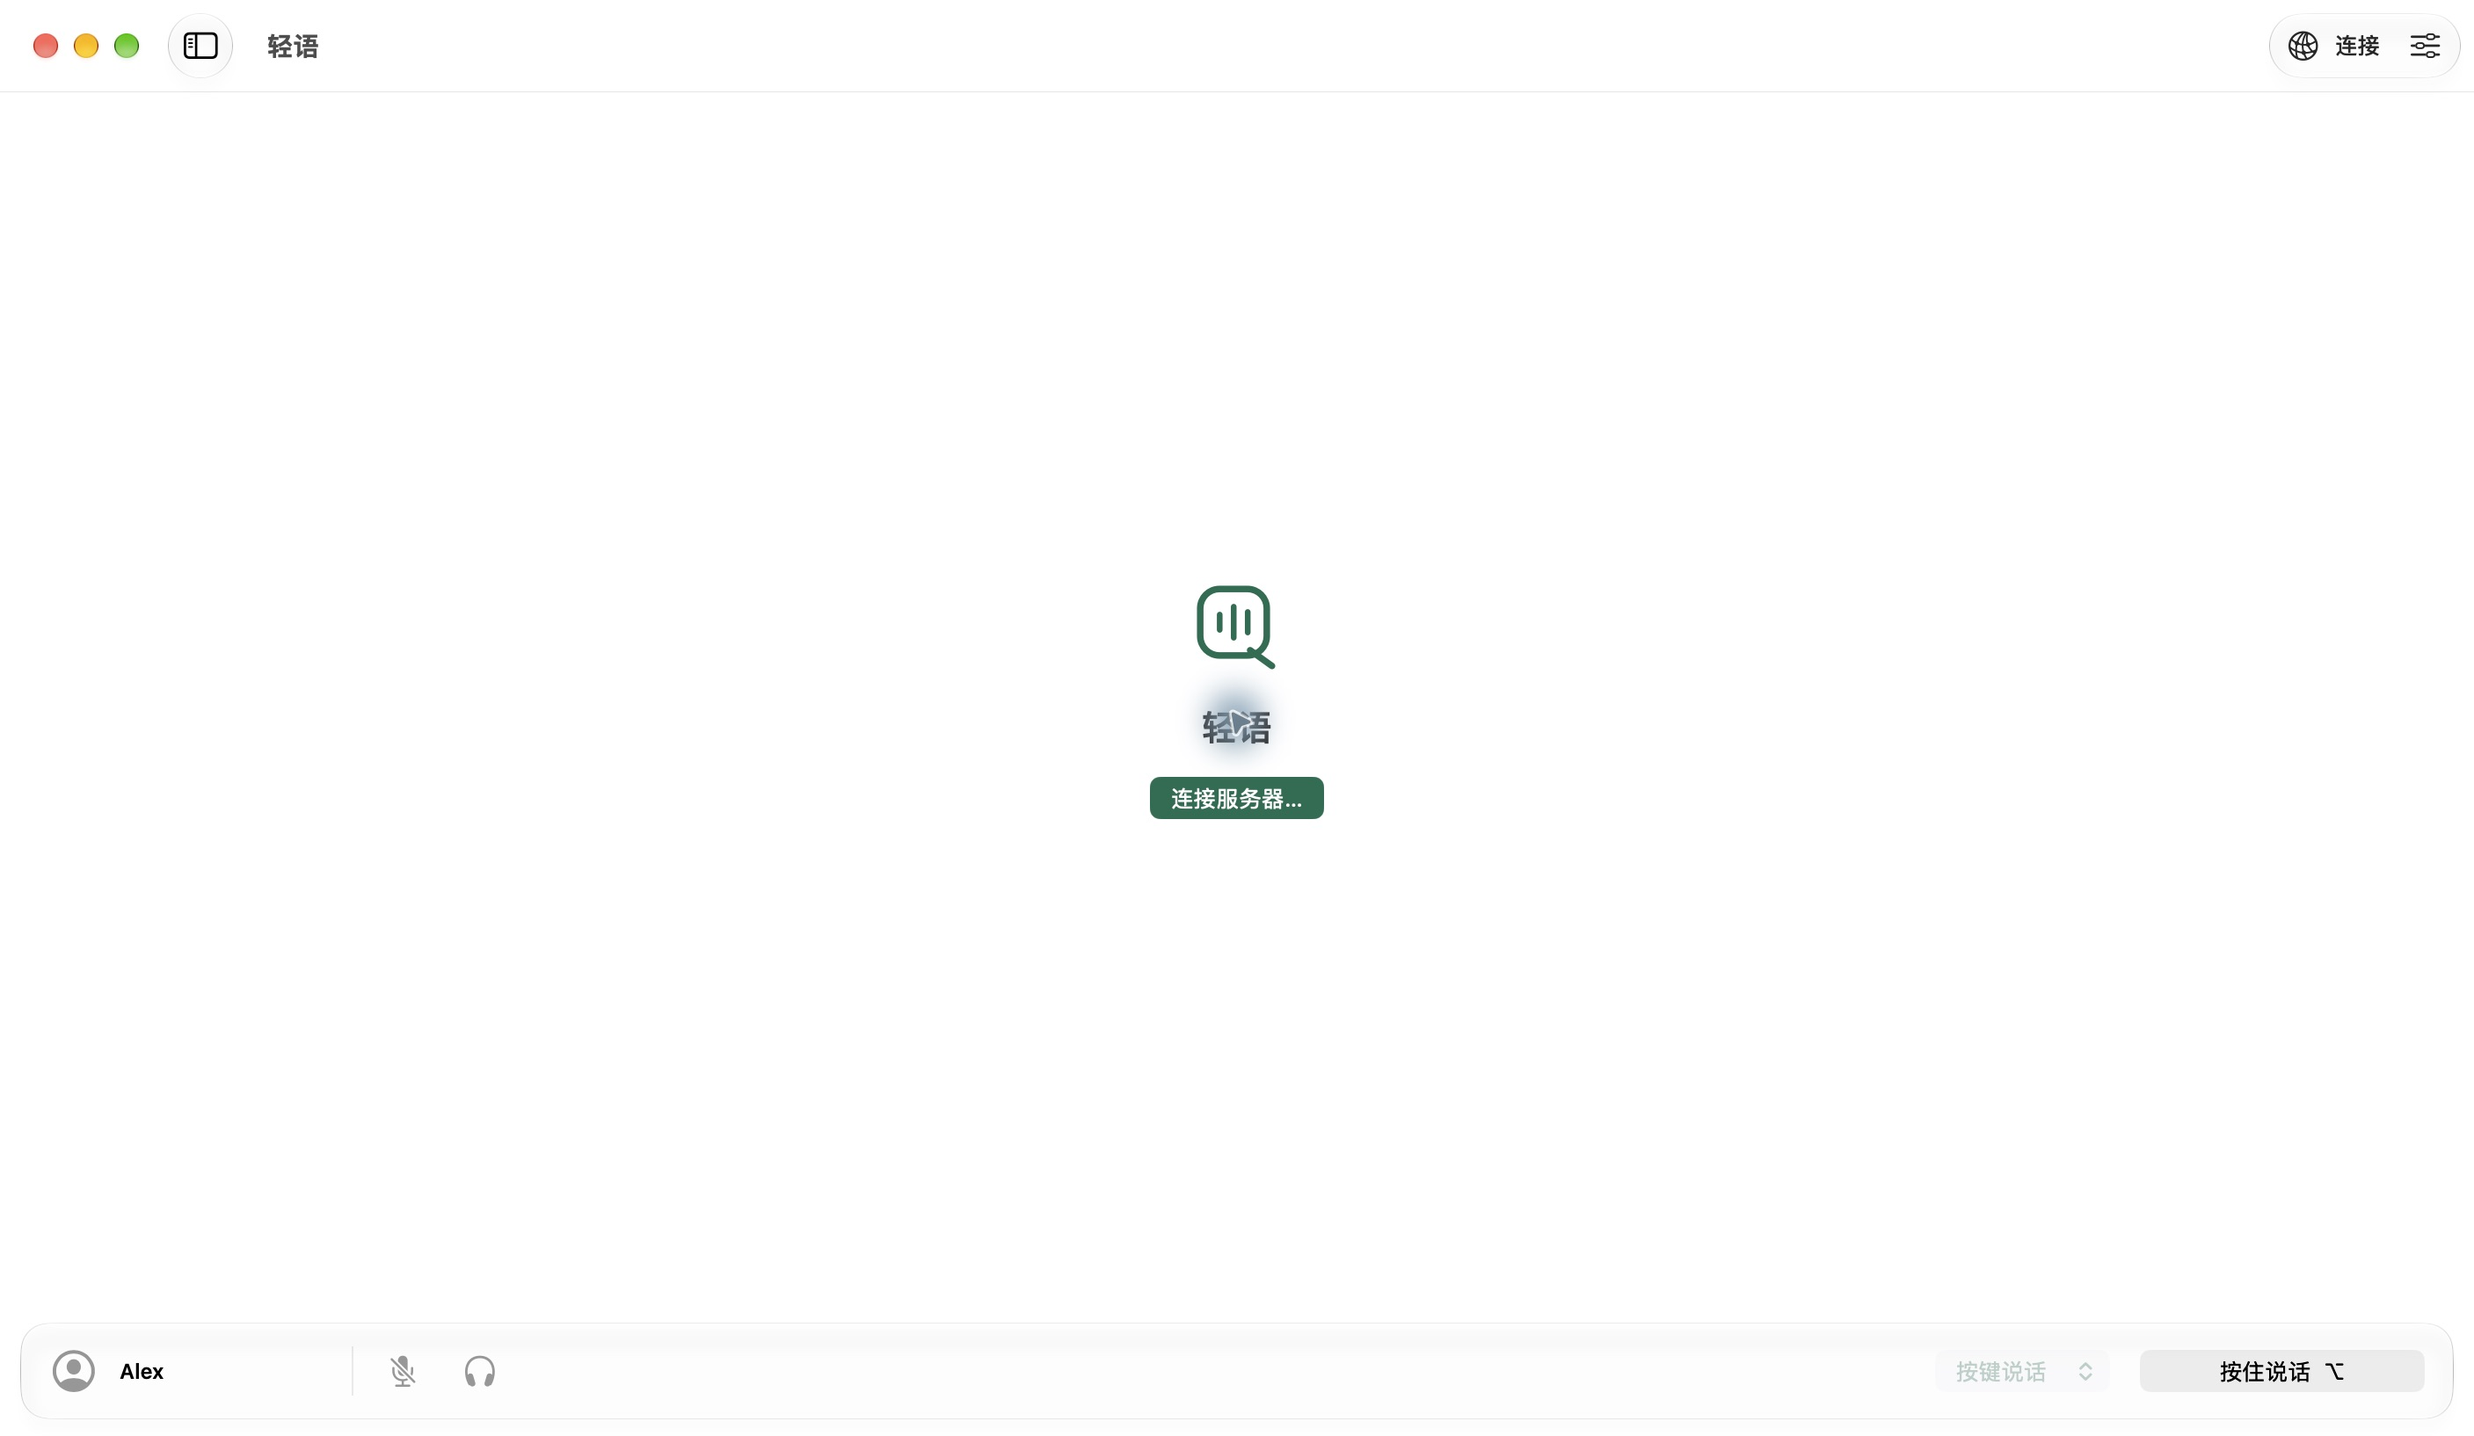
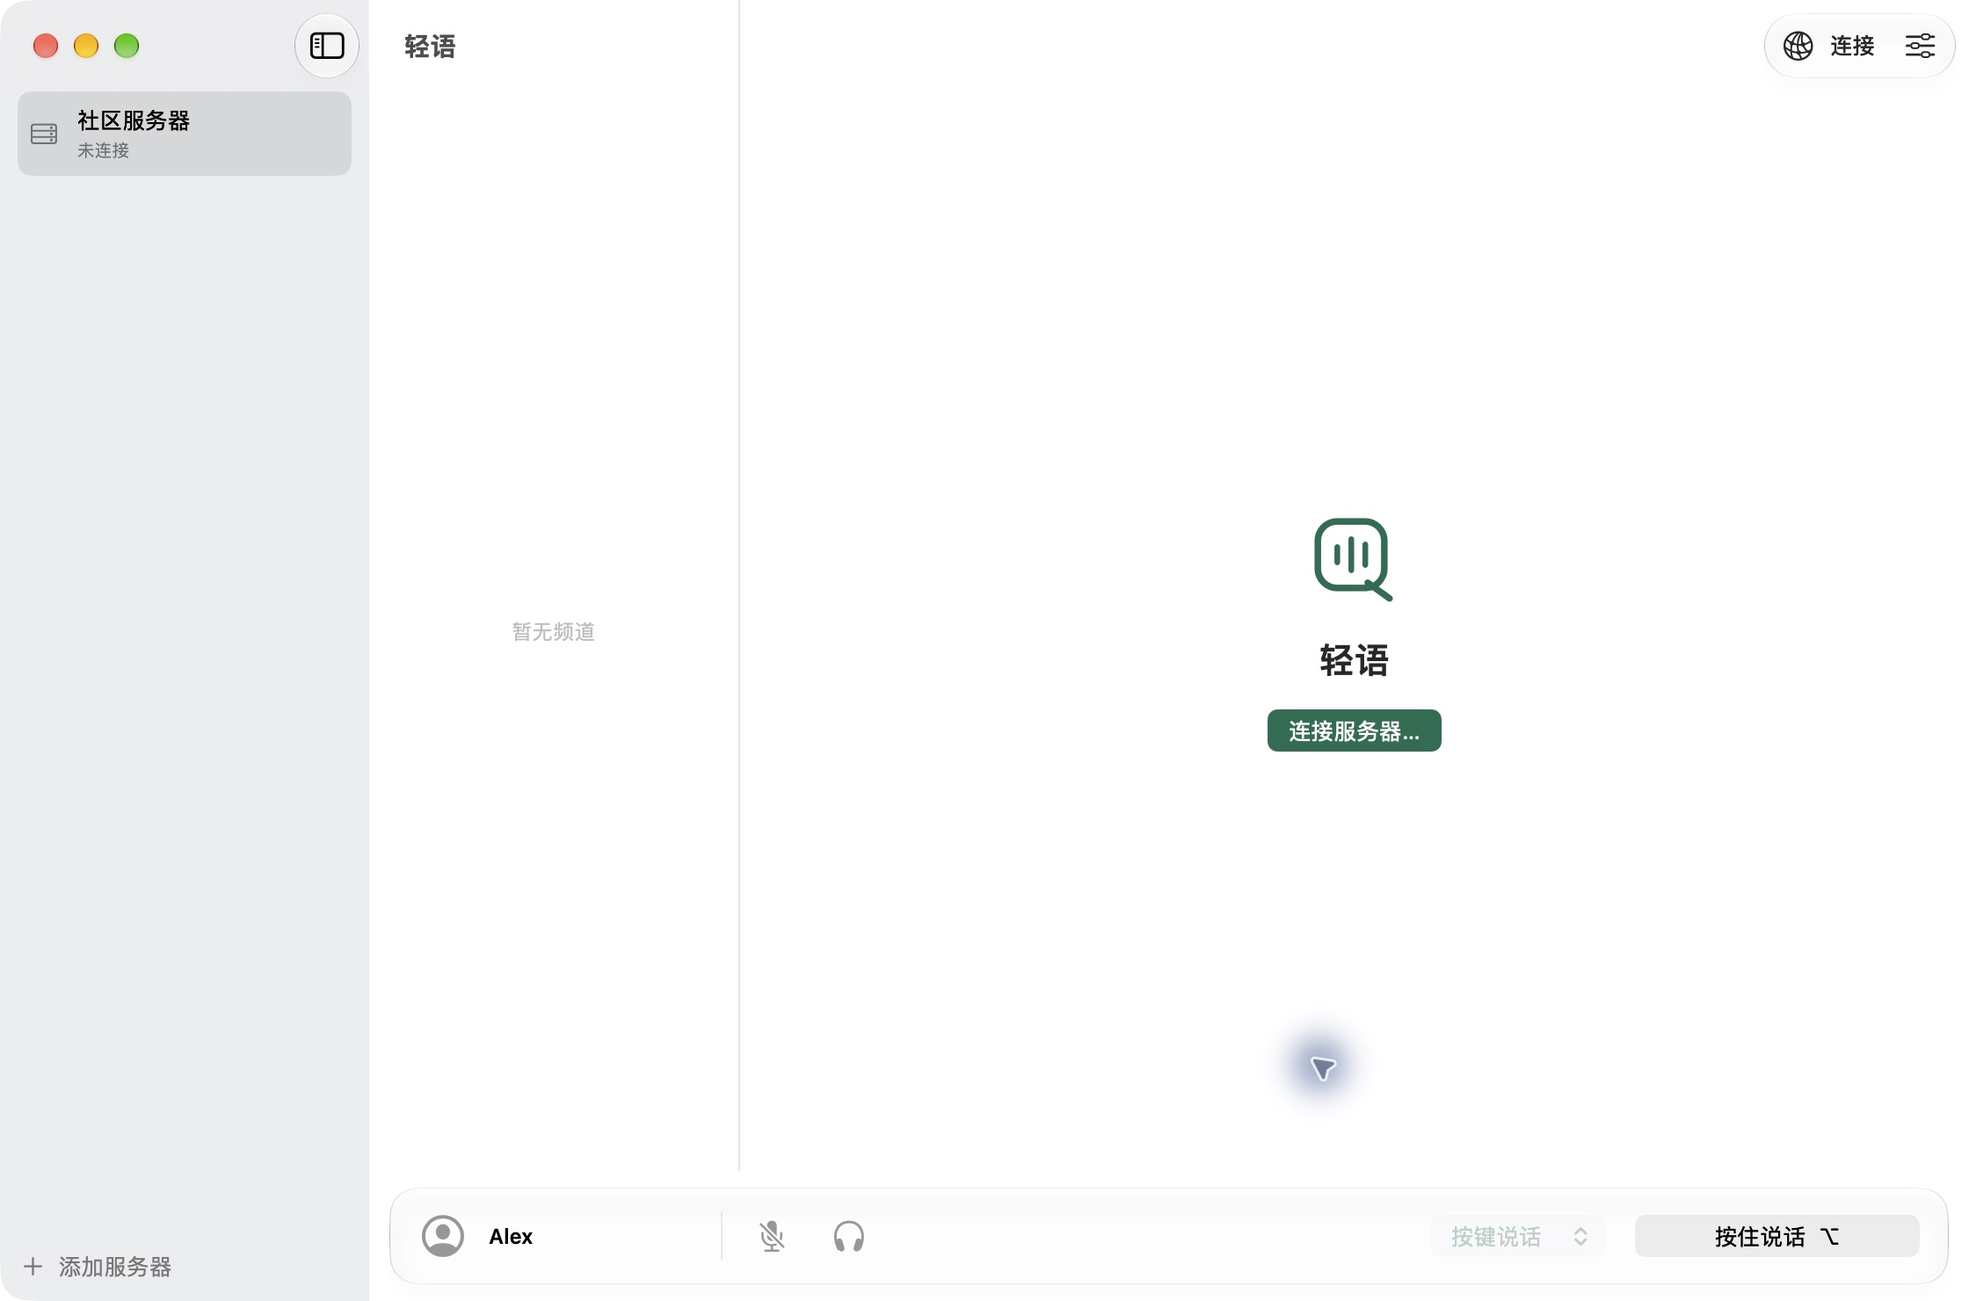
Keep voice controls within the channel and chat workspace

diff --git a/Native/MainView.swift b/Native/MainView.swift
@@ -11,85 +11,86 @@ struct MainView: View {
     @AppStorage("nativeChannelSidebarVisible") private var showChannels = true
     @State private var chatDraft = ""
     var body: some View {
-        VStack(spacing: 0) {
-            navigation.navigationSplitViewStyle(.balanced)
-                .frame(maxWidth: .infinity, maxHeight: .infinity)
-            voiceBar.padding(.horizontal, 12).padding(.vertical, 10)
-        }
-        .focusedSceneValue(\.channelSidebarVisibility, $showChannels)
-        .sheet(isPresented: $client.showConnection) {
-            ConnectionSheet(bookmark: client.selectedServer, isNew: false).environmentObject(
-                client)
-        }
-        .sheet(isPresented: $adding) {
-            ConnectionSheet(bookmark: nil, isNew: true).environmentObject(client)
-        }
-        .sheet(item: $editing) { item in
-            ConnectionSheet(bookmark: item, isNew: false).environmentObject(client)
-        }
-        .sheet(isPresented: $client.showSettings) { SettingsSheet().environmentObject(client) }
-        .alert(
-            "无法完成操作",
-            isPresented: Binding(
-                get: { client.error != nil }, set: { if !$0 { client.error = nil } })
-        ) {
-            Button("好", role: .cancel) { client.error = nil }
-        } message: {
-            Text(client.error ?? "")
-        }
-        .alert(
-            "频道密码",
-            isPresented: Binding(
-                get: { lockedChannel != nil },
-                set: {
-                    if !$0 {
-                        lockedChannel = nil
-                        channelPassword = ""
-                    }
-                })
-        ) {
-            SecureField("请输入频道密码", text: $channelPassword)
-            Button("加入") {
-                client.joinSelected(password: channelPassword)
-                lockedChannel = nil
-                channelPassword = ""
+        navigation.navigationSplitViewStyle(.balanced)
+            .focusedSceneValue(\.channelSidebarVisibility, $showChannels)
+            .sheet(isPresented: $client.showConnection) {
+                ConnectionSheet(bookmark: client.selectedServer, isNew: false).environmentObject(
+                    client)
             }
-            Button("取消", role: .cancel) {
-                lockedChannel = nil
-                channelPassword = ""
+            .sheet(isPresented: $adding) {
+                ConnectionSheet(bookmark: nil, isNew: true).environmentObject(client)
             }
-        } message: {
-            Text("加入 \(lockedChannel?.name ?? "")")
-        }
+            .sheet(item: $editing) { item in
+                ConnectionSheet(bookmark: item, isNew: false).environmentObject(client)
+            }
+            .sheet(isPresented: $client.showSettings) { SettingsSheet().environmentObject(client) }
+            .alert(
+                "无法完成操作",
+                isPresented: Binding(
+                    get: { client.error != nil }, set: { if !$0 { client.error = nil } })
+            ) {
+                Button("好", role: .cancel) { client.error = nil }
+            } message: {
+                Text(client.error ?? "")
+            }
+            .alert(
+                "频道密码",
+                isPresented: Binding(
+                    get: { lockedChannel != nil },
+                    set: {
+                        if !$0 {
+                            lockedChannel = nil
+                            channelPassword = ""
+                        }
+                    })
+            ) {
+                SecureField("请输入频道密码", text: $channelPassword)
+                Button("加入") {
+                    client.joinSelected(password: channelPassword)
+                    lockedChannel = nil
+                    channelPassword = ""
+                }
+                Button("取消", role: .cancel) {
+                    lockedChannel = nil
+                    channelPassword = ""
+                }
+            } message: {
+                Text("加入 \(lockedChannel?.name ?? "")")
+            }
     }
     private var columnVisibility: Binding<NavigationSplitViewVisibility> {
         Binding(
-            get: { showServers ? .all : (showChannels ? .doubleColumn : .detailOnly) },
+            get: { showServers ? .all : .detailOnly },
             set: { visibility in
-                if visibility == .all {
+                if visibility == .all || visibility == .doubleColumn {
                     showServers = true
-                } else if visibility == .doubleColumn {
-                    showServers = !showChannels
                 } else if visibility == .detailOnly {
                     showServers = false
                 }
             })
     }
-    @ViewBuilder private var navigation: some View {
-        if showChannels {
-            NavigationSplitView(columnVisibility: columnVisibility) {
-                servers
-            } content: {
-                channelList
-            } detail: {
-                detail
+    private var navigation: some View {
+        NavigationSplitView(columnVisibility: columnVisibility) {
+            servers
+        } detail: {
+            VStack(spacing: 0) {
+                Group {
+                    if showChannels {
+                        HSplitView {
+                            channelList.frame(minWidth: 210, idealWidth: 260, maxWidth: 380)
+                            detail.layoutPriority(1)
+                        }
+                    } else {
+                        detail
+                    }
+                }.frame(maxWidth: .infinity, maxHeight: .infinity)
+                voiceBar.padding(.horizontal, 12).padding(.vertical, 10)
             }
-        } else {
-            NavigationSplitView(columnVisibility: columnVisibility) {
-                servers
-            } detail: {
-                detail
-            }
+            .frame(minWidth: showChannels ? 584 : 540)
+            .navigationTitle(client.connected ? client.serverName : "轻语")
+            .navigationSubtitle(
+                client.connected ? "\(client.channels.count) 个频道 · \(client.members.count) 位成员" : ""
+            )
         }
     }
     private var detail: some View {
@@ -177,13 +178,7 @@ struct MainView: View {
                 }.allowsHitTesting(false)
             }
         }
-        .navigationTitle(
-            client.connected ? client.serverName : (client.selectedServer?.name ?? "频道")
-        )
-        .navigationSubtitle(
-            client.connected ? "\(client.channels.count) 个频道 · \(client.members.count) 位成员" : ""
-        )
-        .navigationSplitViewColumnWidth(min: 210, ideal: 260, max: 380)
+
     }
     private var flatChannels: [(channel: Channel, depth: Int)] {
         var output: [(channel: Channel, depth: Int)] = []
@@ -290,57 +285,65 @@ struct MainView: View {
                 }.padding(.horizontal, 18).padding(.vertical, 8).background(
                     Color.orange.opacity(0.06))
             }
-            HStack(spacing: 12) {
+            ViewThatFits(in: .horizontal) {
+                voiceControls(compact: false)
+                voiceControls(compact: true)
+            }
+        }.modifier(VoicePanelMaterial())
+    }
+    private func voiceControls(compact: Bool) -> some View {
+        HStack(spacing: compact ? 8 : 12) {
+            if !compact {
                 Image(systemName: "person.crop.circle").font(.system(size: 24))
                     .foregroundStyle(.secondary)
-                VStack(alignment: .leading, spacing: 3) {
-                    Text(
-                        client.members.first(where: { $0.id == client.ownID })?.name ?? client
-                            .selectedServer?.nickname ?? "你"
-                    )
-                    .font(.system(size: 12, weight: .semibold)).lineLimit(1)
-                    if let channel = client.joined {
-                        Text(channel.name).font(.system(size: 10)).foregroundStyle(.secondary)
-                            .lineLimit(1)
-                    }
-                }.frame(width: 120, alignment: .leading)
-                Divider().frame(height: 28)
-                voiceButton(
-                    client.microphoneEnabled ? "mic.fill" : "mic.slash.fill",
-                    label: client.microphoneEnabled ? "关闭麦克风" : "开启麦克风",
-                    active: client.microphoneEnabled
-                ) { client.toggleMicrophone() }
-                voiceButton(
-                    client.deafened ? "speaker.slash.fill" : "headphones",
-                    label: client.deafened ? "恢复耳机" : "耳机静音", active: client.deafened
-                ) { client.toggleDeafen() }
-                Spacer(minLength: 16)
-                Picker("说话方式", selection: $client.talkMode) {
-                    ForEach(TalkMode.allCases) { Text($0.rawValue).tag($0) }
+            }
+            VStack(alignment: .leading, spacing: 3) {
+                Text(
+                    client.members.first(where: { $0.id == client.ownID })?.name ?? client
+                        .selectedServer?.nickname ?? "你"
+                )
+                .font(.system(size: 12, weight: .semibold)).lineLimit(1)
+                if let channel = client.joined {
+                    Text(channel.name).font(.system(size: 10)).foregroundStyle(.secondary)
+                        .lineLimit(1)
                 }
-                .labelsHidden().frame(width: 110).disabled(!client.connected)
-                .onChange(of: client.talkMode) {
-                    client.holding = false
-                    client.updateAudio()
-                }
-                if client.talkMode == .pushToTalk {
-                    HoldToTalk(
-                        enabled: client.connected && client.microphoneEnabled && !client.deafened,
-                        active: client.transmitting, onHold: client.setHolding
-                    )
-                    .frame(width: 162, height: 34)
-                    .help("按住按钮或 ⌥ Option 说话；键盘快捷键仅在轻语位于前台时生效")
-                } else {
-                    Label(
-                        client.microphoneRequested
-                            ? (client.canSendAudio ? "麦克风已开启" : "等待话语权限") : "麦克风已关闭",
-                        systemImage: client.transmitting ? "waveform" : "mic.slash"
-                    )
-                    .font(.system(size: 11)).foregroundStyle(
-                        client.transmitting ? Palette.accent : Color.secondary)
-                }
-            }.padding(.horizontal, 16).frame(height: 54)
-        }.modifier(VoicePanelMaterial())
+            }.frame(width: compact ? 80 : 120, alignment: .leading)
+            Divider().frame(height: 28)
+            voiceButton(
+                client.microphoneEnabled ? "mic.fill" : "mic.slash.fill",
+                label: client.microphoneEnabled ? "关闭麦克风" : "开启麦克风",
+                active: client.microphoneEnabled
+            ) { client.toggleMicrophone() }
+            voiceButton(
+                client.deafened ? "speaker.slash.fill" : "headphones",
+                label: client.deafened ? "恢复耳机" : "耳机静音", active: client.deafened
+            ) { client.toggleDeafen() }
+            Spacer(minLength: 16)
+            Picker("说话方式", selection: $client.talkMode) {
+                ForEach(TalkMode.allCases) { Text($0.rawValue).tag($0) }
+            }
+            .labelsHidden().frame(width: compact ? 100 : 110).disabled(!client.connected)
+            .onChange(of: client.talkMode) {
+                client.holding = false
+                client.updateAudio()
+            }
+            if client.talkMode == .pushToTalk {
+                HoldToTalk(
+                    enabled: client.connected && client.microphoneEnabled && !client.deafened,
+                    active: client.transmitting, onHold: client.setHolding
+                )
+                .frame(width: compact ? 130 : 162, height: 34)
+                .help("按住按钮或 ⌥ Option 说话；键盘快捷键仅在轻语位于前台时生效")
+            } else {
+                Label(
+                    client.microphoneRequested
+                        ? (client.canSendAudio ? "麦克风已开启" : "等待话语权限") : "麦克风已关闭",
+                    systemImage: client.transmitting ? "waveform" : "mic.slash"
+                )
+                .font(.system(size: 11)).foregroundStyle(
+                    client.transmitting ? Palette.accent : Color.secondary)
+            }
+        }.padding(.horizontal, compact ? 12 : 16).frame(height: 54)
     }
     private func voiceButton(
         _ icon: String, label: String, active: Bool, action: @escaping () -> Void

diff --git a/README.en.md b/README.en.md
@@ -1,6 +1,6 @@
 # QuietSpeak
 
-A compact native macOS TeamSpeak 3 client, built with SwiftUI and Rust. **0.1.6 development preview**. The current UI is in Simplified Chinese.
+A compact native macOS TeamSpeak 3 client, built with SwiftUI and Rust. **0.1.7 development preview**. The current UI is in Simplified Chinese.
 
 [中文](README.md) · [MIT license](LICENSE) · [Contributing](CONTRIBUTING.md) · [Changelog](CHANGELOG.md) · [Roadmap](Docs/ROADMAP.md)
 
@@ -17,6 +17,8 @@ Source is public; installer Releases remain drafts. Build locally using the inst
 Native macOS window with fixture data. [Dark appearance](Docs/screenshots/quietspeak-dark.jpg).
 
 Use the system toolbar sidebar button for servers and View → Show Channel List (`⌘⇧2`) for channels. Visibility persists across restarts and native dividers resize the panes. White content and system sidebar materials use green only for branding, actions and speaking states.
+
+The voice bar spans only the channel and chat workspace; the server sidebar extends to the bottom. Controls become compact in narrow windows.
 
 The home logo is centered in the content pane. [Light home](Docs/screenshots/quietspeak-home-light.jpg) · [Dark home](Docs/screenshots/quietspeak-home-dark.jpg).
 

diff --git a/Docs/RELEASE_NOTES.md b/Docs/RELEASE_NOTES.md
@@ -1,10 +1,9 @@
-# QuietSpeak 0.1.6
+# QuietSpeak 0.1.7
 
 原生 macOS TeamSpeak 3 客户端开发预览。
 
-- 白色为主、绿色点缀，系统侧栏材质与深浅色外观。
-- 原生 NavigationSplitView、List和窗口工具栏；服务器栏使用系统侧栏按钮，频道列表使用“显示”菜单或 ⌘⇧2。
-- macOS 26+ 底部语音控制采用 Liquid Glass，旧系统回退为 Material；首页保留居中的品牌 Logo。
-- 折叠状态持久保存，切换分栏保留未发送消息；修正底部控制条遮挡输入框。
+- 底部语音条只横跨右侧频道和聊天区，服务器栏独立延伸到底部。
+- 服务器栏保留系统折叠按钮和宽度调整，语音条跟随右侧工作区布局。
+- 窄窗口自动切换紧凑语音控件；保留白色主调、绿色点缀和系统玻璃材质。
 
 运行需要 macOS 14+。App 为 ad-hoc 签名，尚未公证；没有全局按键说话、回声消除、私信发送、文件传输或权限管理。安装包保留为草稿，公开源码可自行构建。

diff --git a/CHANGELOG.md b/CHANGELOG.md
@@ -1,5 +1,10 @@
 # Changelog
 
+## 0.1.7 — 2026-10-04
+
+- 底部语音条放入右侧工作区，只横跨频道栏和聊天区；服务器栏独立延伸到底部。
+- 服务器栏的折叠和拖动宽度直接调整右侧工作区；窄窗口自动使用紧凑语音控件。
+
 ## 0.1.6 — 2026-10-04
 
 - 改为白色内容和系统材质，绿色仅用于品牌、操作和说话状态。
